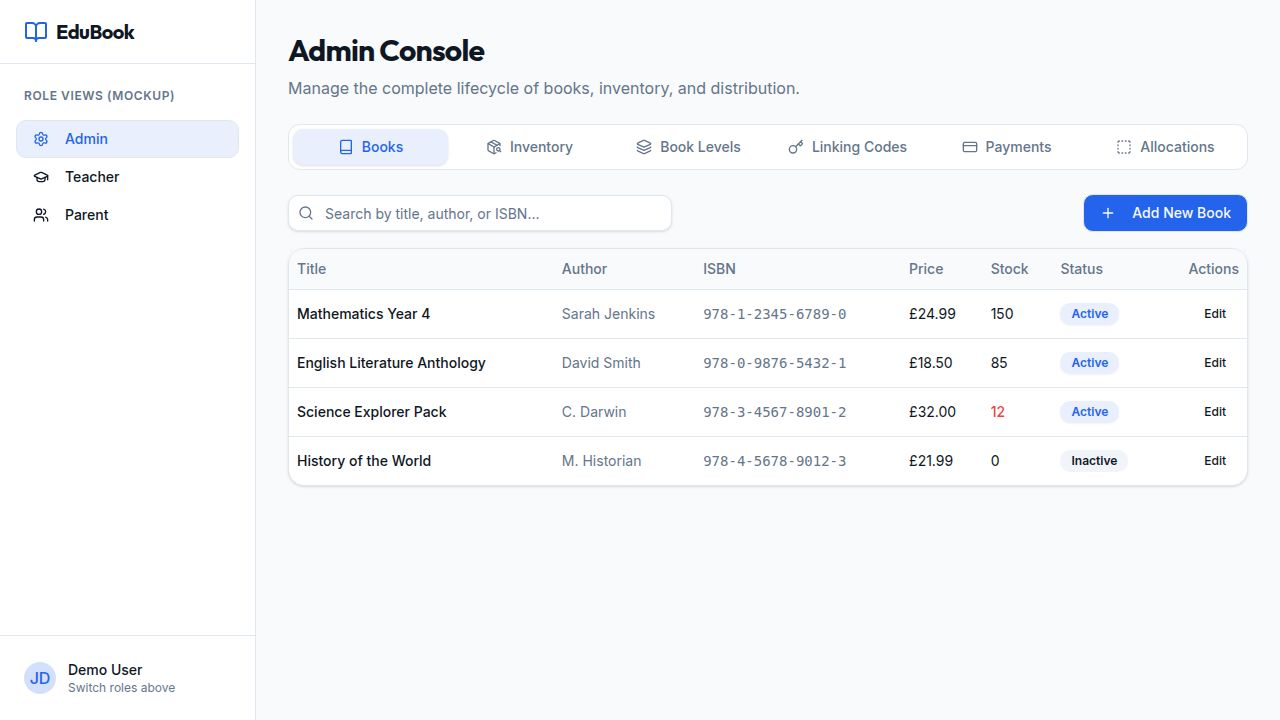
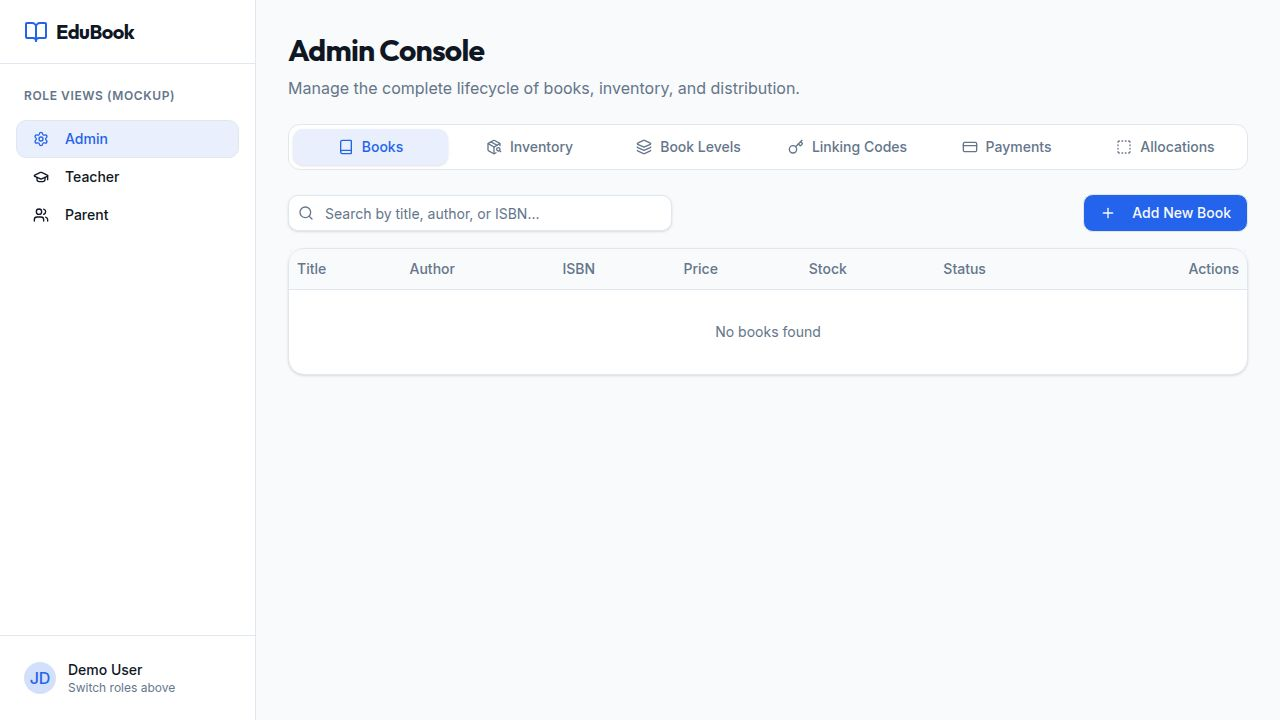
Add authentication and authorization to the application
Implement session management with express-session and connect-pg-simple, including auth routes for login, logout, and current user. Add role-based access control middleware to protect various API endpoints, restricting access based on user roles.

Replit-Commit-Author: Agent
Replit-Commit-Session-Id: 2a8c84aa-6df9-4f0e-b5b4-57fa494bbba7
Replit-Commit-Checkpoint-Type: intermediate_checkpoint
Replit-Commit-Event-Id: 8c3c0f24-3f13-48f9-b963-08baf4ee7e9f
Replit-Commit-Screenshot-Url: https://storage.googleapis.com/screenshot-production-us-central1/598379fb-2408-4632-9f98-306f7f849dbb/2a8c84aa-6df9-4f0e-b5b4-57fa494bbba7/qlApiQt
Replit-Helium-Checkpoint-Created: true

diff --git a/server/routes.ts b/server/routes.ts
@@ -1,5 +1,6 @@
-import type { Express } from "express";
+import type { Express, Request, Response, NextFunction } from "express";
 import { createServer, type Server } from "http";
+import bcrypt from "bcrypt";
 import { storage } from "./storage";
 
 function generateLinkingCode(): string {
@@ -18,18 +19,79 @@ function generatePaymentReference(): string {
   return `EDU-${ts}-${rand}`;
 }
 
+function requireAuth(req: Request, res: Response, next: NextFunction) {
+  if (!req.session.userId) {
+    return res.status(401).json({ message: "Not authenticated" });
+  }
+  next();
+}
+
+function requireRole(...roles: string[]) {
+  return (req: Request, res: Response, next: NextFunction) => {
+    if (!req.session.userId) {
+      return res.status(401).json({ message: "Not authenticated" });
+    }
+    if (!roles.includes(req.session.role!)) {
+      return res.status(403).json({ message: "Access denied" });
+    }
+    next();
+  };
+}
+
 export async function registerRoutes(
   httpServer: Server,
   app: Express
 ): Promise<Server> {
 
+  // === AUTH ===
+  app.post("/api/auth/login", async (req, res) => {
+    try {
+      const { username, password } = req.body;
+      if (!username || !password) {
+        return res.status(400).json({ message: "Username and password required" });
+      }
+      const user = await storage.getUserByUsername(username);
+      if (!user) {
+        return res.status(401).json({ message: "Invalid username or password" });
+      }
+      const valid = await bcrypt.compare(password, user.passwordHash);
+      if (!valid) {
+        return res.status(401).json({ message: "Invalid username or password" });
+      }
+      req.session.userId = user.id;
+      req.session.role = user.role;
+      res.json({ id: user.id, username: user.username, name: user.name, role: user.role, email: user.email });
+    } catch (e: any) {
+      res.status(500).json({ message: e.message });
+    }
+  });
+
+  app.post("/api/auth/logout", (req, res) => {
+    req.session.destroy((err) => {
+      if (err) return res.status(500).json({ message: "Logout failed" });
+      res.clearCookie("connect.sid");
+      res.json({ message: "Logged out" });
+    });
+  });
+
+  app.get("/api/auth/me", async (req, res) => {
+    if (!req.session.userId) {
+      return res.status(401).json({ message: "Not authenticated" });
+    }
+    const user = await storage.getUserById(req.session.userId);
+    if (!user) {
+      return res.status(401).json({ message: "User not found" });
+    }
+    res.json({ id: user.id, username: user.username, name: user.name, role: user.role, email: user.email });
+  });
+
   // === BOOKS ===
-  app.get("/api/books", async (_req, res) => {
+  app.get("/api/books", requireAuth, async (_req, res) => {
     const books = await storage.getBooks();
     res.json(books);
   });
 
-  app.post("/api/books", async (req, res) => {
+  app.post("/api/books", requireRole("admin"), async (req, res) => {
     try {
       const book = await storage.createBook(req.body);
       res.status(201).json(book);
@@ -38,7 +100,7 @@ export async function registerRoutes(
     }
   });
 
-  app.patch("/api/books/:id", async (req, res) => {
+  app.patch("/api/books/:id", requireRole("admin"), async (req, res) => {
     try {
       const book = await storage.updateBook(req.params.id, req.body);
       if (!book) return res.status(404).json({ message: "Book not found" });
@@ -48,24 +110,24 @@ export async function registerRoutes(
     }
   });
 
-  app.delete("/api/books/:id", async (req, res) => {
+  app.delete("/api/books/:id", requireRole("admin"), async (req, res) => {
     await storage.deleteBook(req.params.id);
     res.status(204).send();
   });
 
-  app.get("/api/books/low-stock", async (_req, res) => {
+  app.get("/api/books/low-stock", requireRole("admin"), async (_req, res) => {
     const books = await storage.getLowStockBooks();
     res.json(books);
   });
 
-  app.get("/api/books/by-isbn/:isbn", async (req, res) => {
+  app.get("/api/books/by-isbn/:isbn", requireAuth, async (req, res) => {
     const book = await storage.getBookByIsbn(req.params.isbn);
     if (!book) return res.status(404).json({ message: "Book not found" });
     res.json(book);
   });
 
   // === INVENTORY ===
-  app.post("/api/books/:id/stock", async (req, res) => {
+  app.post("/api/books/:id/stock", requireRole("admin"), async (req, res) => {
     try {
       const { quantity, type, reason } = req.body;
       const book = await storage.adjustStock(req.params.id, quantity, type, reason);
@@ -75,18 +137,18 @@ export async function registerRoutes(
     }
   });
 
-  app.get("/api/inventory-transactions", async (_req, res) => {
+  app.get("/api/inventory-transactions", requireRole("admin"), async (_req, res) => {
     const txns = await storage.getInventoryTransactions();
     res.json(txns);
   });
 
   // === CLASSES ===
-  app.get("/api/classes", async (_req, res) => {
+  app.get("/api/classes", requireAuth, async (_req, res) => {
     const classes = await storage.getClasses();
     res.json(classes);
   });
 
-  app.post("/api/classes", async (req, res) => {
+  app.post("/api/classes", requireRole("admin"), async (req, res) => {
     try {
       const cls = await storage.createClass(req.body);
       res.status(201).json(cls);
@@ -96,12 +158,12 @@ export async function registerRoutes(
   });
 
   // === STUDENTS ===
-  app.get("/api/students", async (_req, res) => {
+  app.get("/api/students", requireRole("admin", "teacher"), async (_req, res) => {
     const students = await storage.getStudents();
     res.json(students);
   });
 
-  app.post("/api/students", async (req, res) => {
+  app.post("/api/students", requireRole("admin"), async (req, res) => {
     try {
       const student = await storage.createStudent(req.body);
       res.status(201).json(student);
@@ -111,12 +173,12 @@ export async function registerRoutes(
   });
 
   // === BOOK LEVELS ===
-  app.get("/api/book-levels", async (_req, res) => {
+  app.get("/api/book-levels", requireRole("admin"), async (_req, res) => {
     const levels = await storage.getBookLevels();
     res.json(levels);
   });
 
-  app.post("/api/book-levels", async (req, res) => {
+  app.post("/api/book-levels", requireRole("admin"), async (req, res) => {
     try {
       const level = await storage.createBookLevel(req.body);
       res.status(201).json(level);
@@ -125,23 +187,23 @@ export async function registerRoutes(
     }
   });
 
-  app.patch("/api/book-levels/:id", async (req, res) => {
+  app.patch("/api/book-levels/:id", requireRole("admin"), async (req, res) => {
     const level = await storage.updateBookLevel(req.params.id, req.body);
     if (!level) return res.status(404).json({ message: "Book level not found" });
     res.json(level);
   });
 
-  app.delete("/api/book-levels/:id", async (req, res) => {
+  app.delete("/api/book-levels/:id", requireRole("admin"), async (req, res) => {
     await storage.deleteBookLevel(req.params.id);
     res.status(204).send();
   });
 
-  app.get("/api/book-levels/:id/items", async (req, res) => {
+  app.get("/api/book-levels/:id/items", requireRole("admin"), async (req, res) => {
     const items = await storage.getBookLevelItems(req.params.id);
     res.json(items);
   });
 
-  app.post("/api/book-levels/:id/items", async (req, res) => {
+  app.post("/api/book-levels/:id/items", requireRole("admin"), async (req, res) => {
     try {
       const item = await storage.addBookLevelItem({ ...req.body, bookLevelId: req.params.id });
       res.status(201).json(item);
@@ -150,18 +212,18 @@ export async function registerRoutes(
     }
   });
 
-  app.delete("/api/book-level-items/:id", async (req, res) => {
+  app.delete("/api/book-level-items/:id", requireRole("admin"), async (req, res) => {
     await storage.removeBookLevelItem(req.params.id);
     res.status(204).send();
   });
 
   // === CLASS BOOK LEVELS ===
-  app.get("/api/class-book-levels", async (_req, res) => {
+  app.get("/api/class-book-levels", requireRole("admin"), async (_req, res) => {
     const cbls = await storage.getClassBookLevels();
     res.json(cbls);
   });
 
-  app.post("/api/class-book-levels", async (req, res) => {
+  app.post("/api/class-book-levels", requireRole("admin"), async (req, res) => {
     try {
       const cbl = await storage.assignClassBookLevel(req.body);
       res.status(201).json(cbl);
@@ -171,12 +233,12 @@ export async function registerRoutes(
   });
 
   // === LINKING CODES ===
-  app.get("/api/linking-codes", async (_req, res) => {
+  app.get("/api/linking-codes", requireRole("admin"), async (_req, res) => {
     const codes = await storage.getLinkingCodes();
     res.json(codes);
   });
 
-  app.post("/api/students/:id/linking-code", async (req, res) => {
+  app.post("/api/students/:id/linking-code", requireRole("admin"), async (req, res) => {
     try {
       const { parentEmail } = req.body;
       const code = generateLinkingCode();
@@ -196,7 +258,7 @@ export async function registerRoutes(
   });
 
   // === PARENT ENDPOINTS ===
-  app.post("/api/parent/link-child", async (req, res) => {
+  app.post("/api/parent/link-child", requireRole("parent"), async (req, res) => {
     try {
       const { code, parentIdentifier } = req.body;
       const result = await storage.useLinkingCode(code, parentIdentifier);
@@ -207,14 +269,14 @@ export async function registerRoutes(
     }
   });
 
-  app.get("/api/parent/children", async (req, res) => {
+  app.get("/api/parent/children", requireRole("parent"), async (req, res) => {
     const parentIdentifier = req.query.parentIdentifier as string;
     if (!parentIdentifier) return res.status(400).json({ message: "parentIdentifier required" });
     const children = await storage.getParentChildren(parentIdentifier);
     res.json(children);
   });
 
-  app.post("/api/parent/children/:id/basket", async (req, res) => {
+  app.post("/api/parent/children/:id/basket", requireRole("parent"), async (req, res) => {
     try {
       const { parentIdentifier } = req.body;
       const basket = await storage.generateBasket(req.params.id, parentIdentifier);
@@ -224,14 +286,14 @@ export async function registerRoutes(
     }
   });
 
-  app.get("/api/parent/baskets", async (req, res) => {
+  app.get("/api/parent/baskets", requireRole("parent"), async (req, res) => {
     const parentIdentifier = req.query.parentIdentifier as string;
     if (!parentIdentifier) return res.status(400).json({ message: "parentIdentifier required" });
     const baskets = await storage.getBaskets(parentIdentifier);
     res.json(baskets);
   });
 
-  app.post("/api/parent/payments", async (req, res) => {
+  app.post("/api/parent/payments", requireRole("parent"), async (req, res) => {
     try {
       const { basketIds, parentIdentifier, paymentMethod } = req.body;
       const baskets = [];
@@ -258,7 +320,7 @@ export async function registerRoutes(
     }
   });
 
-  app.get("/api/parent/payments", async (req, res) => {
+  app.get("/api/parent/payments", requireRole("parent"), async (req, res) => {
     const parentIdentifier = req.query.parentIdentifier as string;
     if (!parentIdentifier) return res.status(400).json({ message: "parentIdentifier required" });
     const payments = await storage.getPayments(parentIdentifier);
@@ -266,12 +328,12 @@ export async function registerRoutes(
   });
 
   // === ADMIN PAYMENTS ===
-  app.get("/api/admin/payments", async (_req, res) => {
+  app.get("/api/admin/payments", requireRole("admin"), async (_req, res) => {
     const payments = await storage.getPayments();
     res.json(payments);
   });
 
-  app.post("/api/admin/payments/:id/confirm", async (req, res) => {
+  app.post("/api/admin/payments/:id/confirm", requireRole("admin"), async (req, res) => {
     try {
       const payment = await storage.confirmPayment(req.params.id);
       res.json(payment);
@@ -280,7 +342,7 @@ export async function registerRoutes(
     }
   });
 
-  app.post("/api/admin/payments/:id/reject", async (req, res) => {
+  app.post("/api/admin/payments/:id/reject", requireRole("admin"), async (req, res) => {
     try {
       const payment = await storage.rejectPayment(req.params.id);
       res.json(payment);
@@ -290,13 +352,13 @@ export async function registerRoutes(
   });
 
   // === ALLOCATIONS ===
-  app.get("/api/allocations", async (req, res) => {
+  app.get("/api/allocations", requireRole("admin", "teacher"), async (req, res) => {
     const classId = req.query.classId as string | undefined;
     const allocations = await storage.getAllocations(classId);
     res.json(allocations);
   });
 
-  app.post("/api/allocations/:id/confirm-receipt", async (req, res) => {
+  app.post("/api/allocations/:id/confirm-receipt", requireRole("teacher"), async (req, res) => {
     try {
       const allocation = await storage.confirmReceipt(req.params.id);
       res.json(allocation);
@@ -306,7 +368,7 @@ export async function registerRoutes(
   });
 
   // === ALL BASKETS (admin) ===
-  app.get("/api/admin/baskets", async (_req, res) => {
+  app.get("/api/admin/baskets", requireRole("admin"), async (_req, res) => {
     const baskets = await storage.getBaskets();
     res.json(baskets);
   });

diff --git a/server/index.ts b/server/index.ts
@@ -1,7 +1,16 @@
 import express, { type Request, Response, NextFunction } from "express";
+import session from "express-session";
+import connectPgSimple from "connect-pg-simple";
 import { registerRoutes } from "./routes";
 import { serveStatic } from "./static";
 import { createServer } from "http";
+
+declare module "express-session" {
+  interface SessionData {
+    userId: string;
+    role: string;
+  }
+}
 
 const app = express();
 const httpServer = createServer(app);
@@ -21,6 +30,25 @@ app.use(
 );
 
 app.use(express.urlencoded({ extended: false }));
+
+const PgSession = connectPgSimple(session);
+app.use(
+  session({
+    store: new PgSession({
+      conString: process.env.DATABASE_URL,
+      createTableIfMissing: true,
+    }),
+    secret: process.env.SESSION_SECRET || "edubook-session-secret-dev",
+    resave: false,
+    saveUninitialized: false,
+    cookie: {
+      maxAge: 30 * 24 * 60 * 60 * 1000,
+      httpOnly: true,
+      secure: false,
+      sameSite: "lax",
+    },
+  }),
+);
 
 export function log(message: string, source = "express") {
   const formattedTime = new Date().toLocaleTimeString("en-US", {
